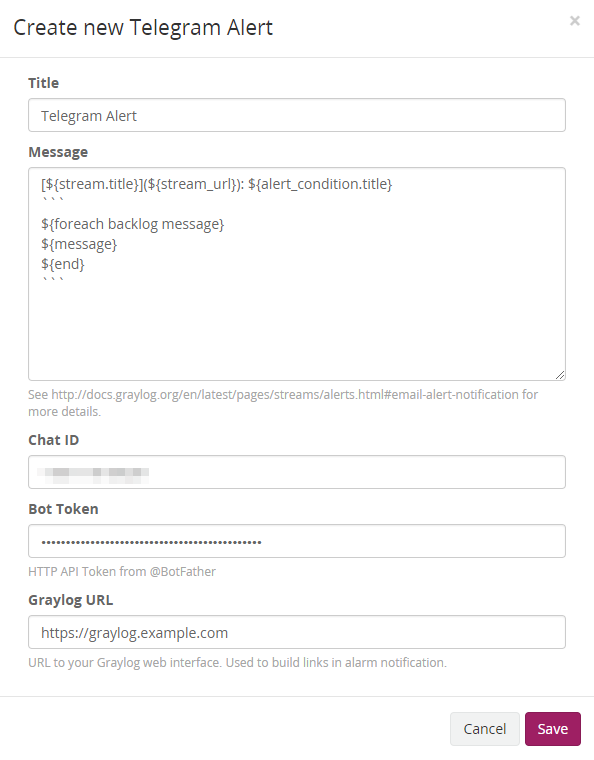
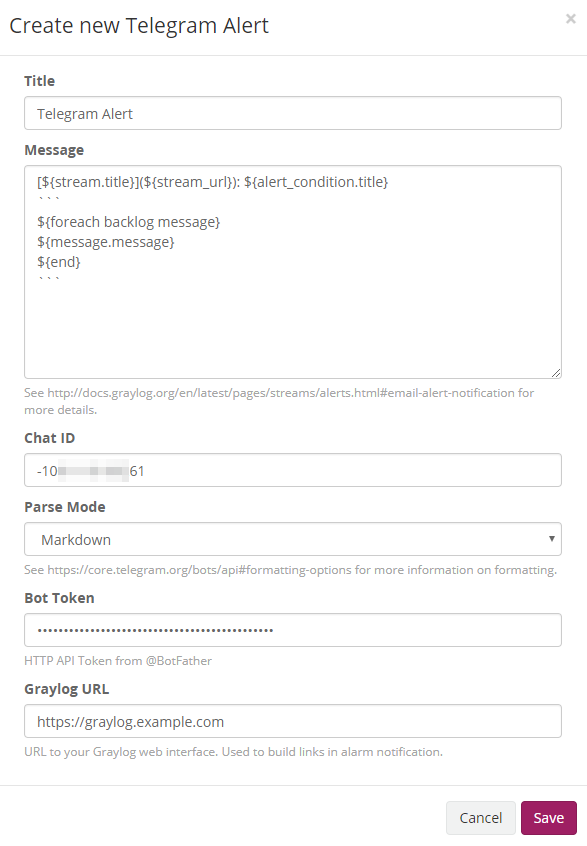
updated instructions

diff --git a/README.md b/README.md
@@ -12,7 +12,8 @@ Requires Graylog 2.0 or later.
 ## Installation
 
 [Download the plugin](https://github.com/irgendwr/TelegramAlert/releases/latest)
-and place the `.jar` file in your plugins folder that is configured in your `graylog.conf` as described in the [Graylog documentation](http://docs.graylog.org/en/latest/pages/plugins.html#installing-and-loading-plugins).
+and place the `.jar` file in your plugins folder that is configured in your `graylog.conf`
+as described in the [Graylog documentation](http://docs.graylog.org/en/latest/pages/plugins.html#installing-and-loading-plugins).
 
 Restart graylog-server: `service graylog-server restart`
 
@@ -23,6 +24,13 @@ Restart graylog-server: `service graylog-server restart`
 Create a new bot with the [BotFather](https://t.me/BotFather).
 
 ### Step 2
+
+Send the Bot a message and go to `https://api.telegram.org/bot<BOT_TOKEN>/getUpdates`
+(replace `<BOT_TOKEN>` with the token you got from BotFather) to get your ID, as shown below.
+
+![Chat ID](screenshots/chat_id.png)
+
+### Step 3
 
 Add a new alert notification in your Graylog-interface and select `Telegram Alert` as the notification type.
 
